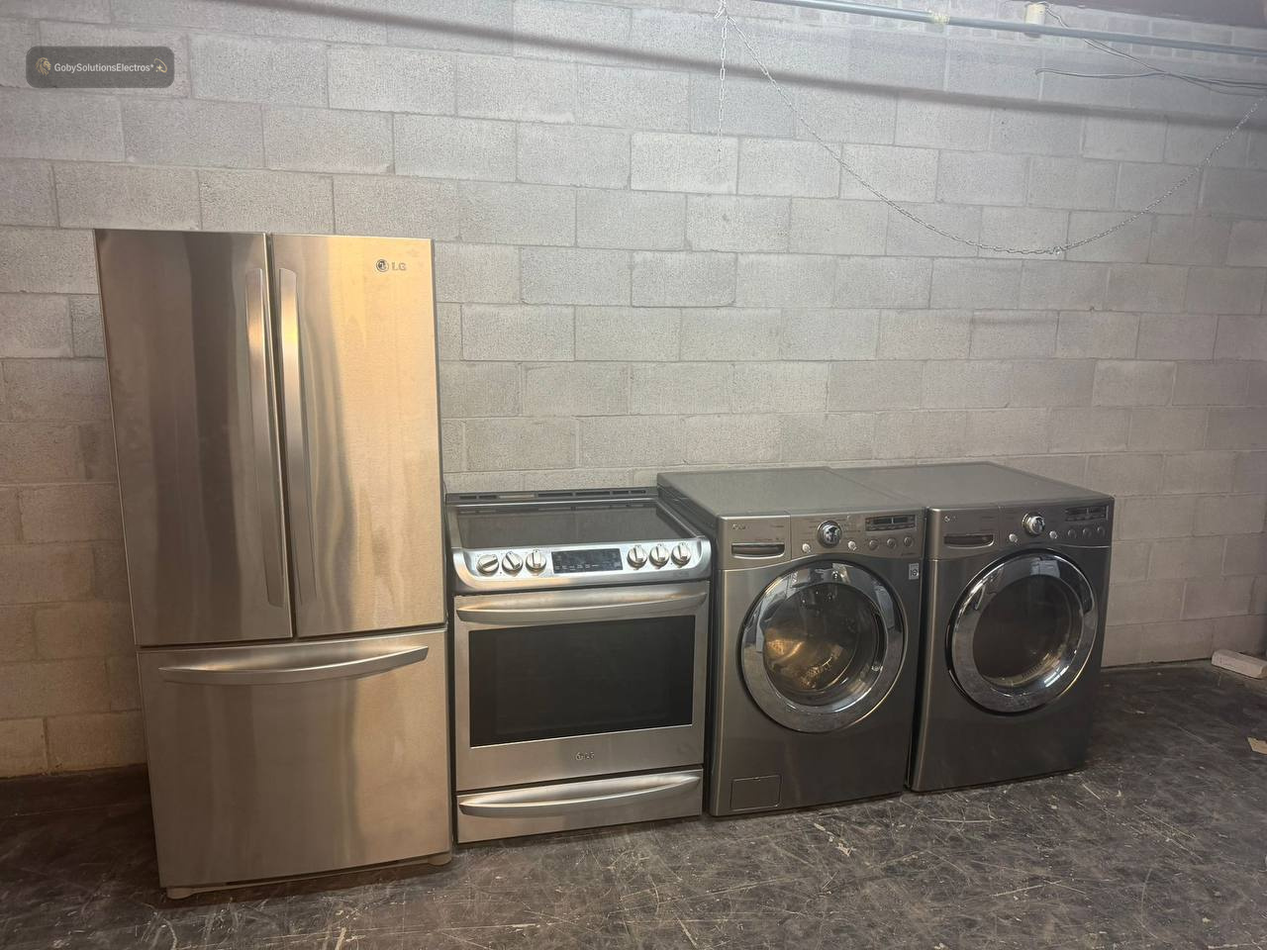
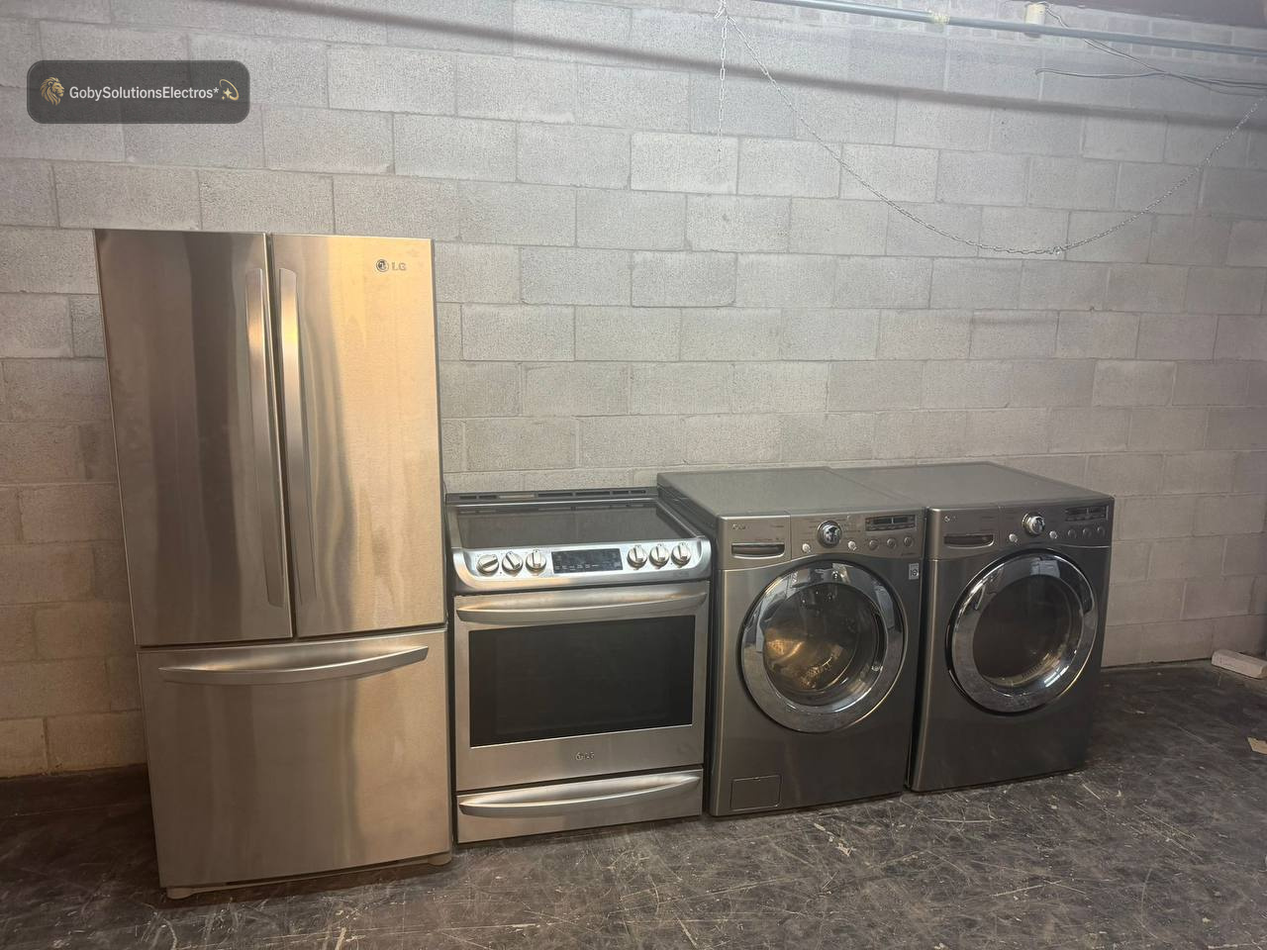
Improve watermark visibility and redesign catalog with carousel modal
- Watermark: increased size (18% width) and opacity (50%)
- Catalog: one main card per set showing main photo and set price
- Modal: carousel with prev/next arrows, shows all 4 photos
- Modal: lists each appliance with individual price and description
- Modal: bundle price displayed prominently with WhatsApp/Email/Call buttons
- Keyboard: arrow keys navigate carousel, Escape closes modal

Changed region(s): [[0.0, 0.0312, 0.2188, 0.1562]]

diff --git a/index.html b/index.html
@@ -94,15 +94,29 @@
       .cat-header h3{font-family:'Playfair Display',serif;font-size:1.35rem;color:#fff;font-weight:600}
       .cat-header span{font-size:.75rem;color:var(--text2);text-transform:uppercase;letter-spacing:.12em}
       .cat-header .line{flex:1;height:1px;background:var(--border)}
-      .set-block{margin-bottom:2.5rem;padding-bottom:1rem;border-bottom:1px solid rgba(201,149,42,.08)}
-      .set-block:last-child{border-bottom:none}
-      .set-header{display:flex;align-items:center;justify-content:space-between;padding:1.25rem 1.5rem;background:var(--bg3);border:1px solid var(--border);border-radius:14px;margin-bottom:.5rem;gap:1rem;flex-wrap:wrap}
-      .set-header-left{display:flex;align-items:center;gap:.75rem}
-      .set-icon{font-size:1.5rem}
-      .set-header h4{font-family:'Playfair Display',serif;font-size:1.2rem;color:#fff;font-weight:600;margin:0}
-      .set-total-price{font-family:'Playfair Display',serif;font-size:1.8rem;font-weight:700;color:var(--gold-light);white-space:nowrap}
-      .set-total-price small{font-size:.7rem;color:var(--text2);font-weight:300}
-      .set-savings{text-align:center;font-size:.7rem;font-weight:500;text-transform:uppercase;letter-spacing:.2em;color:var(--gold);margin-bottom:.75rem}
+      .set-card .img-wrap{position:relative}
+      .set-badge{position:absolute;top:12px;left:12px;background:rgba(0,0,0,.7);backdrop-filter:blur(6px);border:1px solid rgba(201,149,42,.3);padding:.35rem .75rem;border-radius:8px;font-size:.6rem;font-weight:600;text-transform:uppercase;letter-spacing:.15em;color:var(--gold);z-index:2}
+      .set-price{font-size:1.6rem!important}
+      .set-includes{font-size:.75rem;color:var(--text2);margin-bottom:.75rem}
+
+      .modal-carousel-wrap{position:relative;min-height:350px;background:var(--bg3);overflow:hidden;border-radius:20px 0 0 20px;display:flex;align-items:center;justify-content:center}
+      .modal-carousel-wrap img{width:100%;height:100%;object-fit:cover;position:absolute;inset:0}
+      .carousel-btn{position:absolute;top:50%;transform:translateY(-50%);width:2.5rem;height:2.5rem;border-radius:50%;background:rgba(0,0,0,.5);backdrop-filter:blur(4px);border:1px solid rgba(255,255,255,.15);color:#fff;font-size:1.2rem;display:flex;align-items:center;justify-content:center;cursor:pointer;transition:all .25s;z-index:3}
+      .carousel-btn:hover{background:rgba(0,0,0,.8);border-color:var(--gold)}
+      .carousel-prev{left:12px}
+      .carousel-next{right:12px}
+      .carousel-counter{position:absolute;bottom:12px;right:12px;background:rgba(0,0,0,.6);backdrop-filter:blur(4px);padding:.3rem .7rem;border-radius:6px;font-size:.7rem;color:#fff;z-index:3}
+
+      .modal-appliances{margin-bottom:1.25rem;flex:1}
+      .modal-appliance{padding:.85rem 0;border-bottom:1px solid var(--border)}
+      .modal-appliance:last-child{border-bottom:none}
+      .modal-appliance-name{font-family:'Playfair Display',serif;font-size:.95rem;color:#fff;font-weight:600;margin-bottom:.25rem}
+      .modal-appliance-desc{font-size:.78rem;color:var(--text2);line-height:1.6;margin-bottom:.35rem}
+      .modal-appliance-price{font-size:1.1rem;font-weight:600;color:var(--gold-light);font-family:'Playfair Display',serif}
+
+      .modal-set-total{text-align:center;padding:1rem 0;border-top:1px solid var(--border);margin-bottom:1rem}
+      .modal-set-label{font-size:.65rem;text-transform:uppercase;letter-spacing:.2em;color:var(--gold);display:block;margin-bottom:.35rem}
+      .set-modal .modal-price{font-size:2rem!important;margin:0!important}
 
       .product-card{background:var(--bg2);border:1px solid var(--border);border-radius:16px;overflow:hidden;transition:all .4s cubic-bezier(.22,1,.36,1);cursor:pointer}
       .product-card:hover{transform:translateY(-6px);border-color:rgba(201,149,42,.3);box-shadow:0 20px 60px rgba(0,0,0,.5)}
@@ -169,10 +183,10 @@
       @media(max-width:768px){
         .section{padding:4rem 0}.container{padding:0 1.25rem}
         .catalog-grid{grid-template-columns:repeat(auto-fill,minmax(240px,1fr))}
-        .set-header{flex-direction:column;align-items:flex-start;gap:.75rem}
-        .set-total-price{text-align:left}
+        .modal-carousel-wrap{min-height:250px;border-radius:20px 20px 0 0}
         .modal{grid-template-columns:1fr}
         .modal .modal-img-wrap{min-height:200px;border-radius:20px 20px 0 0}
+        .modal-carousel-wrap{min-height:200px;border-radius:20px 20px 0 0}
         .modal .modal-body{padding:1.5rem}
         .modal .modal-actions .btn{min-width:100%}
         .hamburger{display:flex}
@@ -521,21 +535,27 @@
       </div>
     </footer>
 
-    <div class="modal-overlay" id="productModal" onclick="if(event.target===this)closeModal()">
-      <div class="modal" role="dialog" aria-modal="true">
-        <div class="modal-img-wrap">
-          <img id="modalImg" src="" alt="" />
+    <div class="modal-overlay" id="setModal" onclick="if(event.target===this)closeSetModal()">
+      <div class="modal set-modal" role="dialog" aria-modal="true">
+        <div class="modal-carousel-wrap">
+          <button class="carousel-btn carousel-prev" onclick="event.stopPropagation();carouselPrev()">‹</button>
+          <img id="carouselImg" src="" alt="" />
+          <button class="carousel-btn carousel-next" onclick="event.stopPropagation();carouselNext()">›</button>
+          <div class="carousel-counter" id="carouselCounter"></div>
         </div>
         <div class="modal-body">
-          <button class="close-btn" onclick="closeModal()" aria-label="Close">✕</button>
-          <span class="modal-cat-tag" id="modalCat"></span>
-          <h3 class="modal-title" id="modalTitle"></h3>
-          <p class="modal-desc" id="modalDesc"></p>
-          <div class="modal-price" id="modalPrice"></div>
+          <button class="close-btn" onclick="closeSetModal()" aria-label="Close">✕</button>
+          <span class="modal-cat-tag" id="setModalCat"></span>
+          <h3 class="modal-title" id="setModalTitle"></h3>
+          <div class="modal-appliances" id="setModalAppliances"></div>
+          <div class="modal-set-total">
+            <span class="modal-set-label">Prix Ensemble Complet</span>
+            <div class="modal-price" id="setModalPrice"></div>
+          </div>
           <div class="modal-actions">
-            <a class="btn btn-gold" id="modalWA" target="_blank" rel="noopener" data-i18n="modalWA">💬 WhatsApp</a>
-            <a class="btn btn-outline" id="modalEmail" data-i18n="modalEmail">✉ Email</a>
-            <a class="btn btn-outline" id="modalCall" data-i18n="modalCall">📞 Appeler</a>
+            <a class="btn btn-gold" id="setModalWA" target="_blank" rel="noopener">💬 WhatsApp</a>
+            <a class="btn btn-outline" id="setModalEmail">✉ Email</a>
+            <a class="btn btn-outline" id="setModalCall">📞 Appeler</a>
           </div>
         </div>
       </div>
@@ -545,42 +565,77 @@
       const sets = [
         {
           num: 1, setPrice: 1499,
+          mainImg: 'assets/5%20Combos/SET%20NUMERO%201/fridge-lg-33-watermarked.jpg',
+          photos: [
+            'assets/5%20Combos/SET%20NUMERO%201/fridge-lg-33-watermarked.jpg',
+            'assets/5%20Combos/SET%20NUMERO%201/stove-frigidaire-30-watermarked.jpg',
+            'assets/5%20Combos/SET%20NUMERO%201/washer-dryer-midea-27-watermarked.jpg',
+            'assets/5%20Combos/SET%20NUMERO%201/photo-4-watermarked.jpg'
+          ],
           appliances: [
-            {id:'s1-fridge', type:'Réfrigérateur', typeEN:'Refrigerator', brand:'LG', size:'33"', price:579, sku:'S1-001', img:'assets/5 Combos/SET%20NUMERO%201/fridge-lg-33-watermarked.jpg', descFR:'Réfrigérateur LG 33 pouces. Grande capacité, éclairage LED, technology de conservation avancée.', descEN:'LG 33" Refrigerator. Large capacity, LED lighting, advanced preservation technology.'},
-            {id:'s1-stove', type:'Cuisinière', typeEN:'Stove', brand:'FRIGIDAIRE', size:'30"', price:449, sku:'S1-002', img:'assets/5%20Combos/SET%20NUMERO%201/stove-frigidaire-30-watermarked.jpg', descFR:'Cuisinière FRIGIDAIRE 30 pouces. Brûleurs performants, four convecteur, fini élégant.', descEN:'FRIGIDAIRE 30" Stove. High-performance burners, convection oven, elegant finish.'},
-            {id:'s1-washer', type:'Laveuse-Sécheuse', typeEN:'Washer-Dryer', brand:'MIDEA', size:'27"', price:649, sku:'S1-003', img:'assets/5%20Combos/SET%20NUMERO%201/washer-dryer-midea-27-watermarked.jpg', descFR:'Laveuse-sécheuse MIDEA 27 pouces. Efficacité énergétique, cycles variés, capacité familiale.', descEN:'MIDEA 27" Washer-Dryer. Energy efficient, multiple cycles, family capacity.'}
+            {type:'Réfrigérateur', typeEN:'Refrigerator', brand:'LG', size:'33"', price:579, descFR:'Réfrigérateur LG 33 pouces. Grande capacité, éclairage LED, technologie de conservation avancée.', descEN:'LG 33" Refrigerator. Large capacity, LED lighting, advanced preservation technology.'},
+            {type:'Cuisinière', typeEN:'Stove', brand:'FRIGIDAIRE', size:'30"', price:449, descFR:'Cuisinière FRIGIDAIRE 30 pouces. Brûleurs performants, four convecteur, fini élégant.', descEN:'FRIGIDAIRE 30" Stove. High-performance burners, convection oven, elegant finish.'},
+            {type:'Laveuse-Sécheuse', typeEN:'Washer-Dryer', brand:'MIDEA', size:'27"', price:649, descFR:'Laveuse-sécheuse MIDEA 27 pouces. Efficacité énergétique, cycles variés, capacité familiale.', descEN:'MIDEA 27" Washer-Dryer. Energy efficient, multiple cycles, family capacity.'}
           ]
         },
         {
           num: 2, setPrice: 1389,
+          mainImg: 'assets/5%20Combos/SET%20NUMERO%202/fridge-whirlpool-33-watermarked.jpg',
+          photos: [
+            'assets/5%20Combos/SET%20NUMERO%202/fridge-whirlpool-33-watermarked.jpg',
+            'assets/5%20Combos/SET%20NUMERO%202/stove-whirlpool-30-watermarked.jpg',
+            'assets/5%20Combos/SET%20NUMERO%202/washer-dryer-samsung-27-watermarked.jpg',
+            'assets/5%20Combos/SET%20NUMERO%202/photo-4-watermarked.jpg'
+          ],
           appliances: [
-            {id:'s2-fridge', type:'Réfrigérateur', typeEN:'Refrigerator', brand:'WHIRLPOOL', size:'33"', price:550, sku:'S2-001', img:'assets/5%20Combos/SET%20NUMERO%202/fridge-whirlpool-33-watermarked.jpg', descFR:'Réfrigérateur WHIRLPOOL 33 pouces. Design classique, conservation optimale, fiabilité éprouvée.', descEN:'WHIRLPOOL 33" Refrigerator. Classic design, optimal preservation, proven reliability.'},
-            {id:'s2-stove', type:'Cuisinière', typeEN:'Stove', brand:'WHIRLPOOL', size:'30"', price:399, sku:'S2-002', img:'assets/5%20Combos/SET%20NUMERO%202/stove-whirlpool-30-watermarked.jpg', descFR:'Cuisinière WHIRLPOOL 30 pouces. Performance constante, cuisson uniforme, facile à nettoyer.', descEN:'WHIRLPOOL 30" Stove. Consistent performance, even cooking, easy to clean.'},
-            {id:'s2-washer', type:'Laveuse-Sécheuse', typeEN:'Washer-Dryer', brand:'SAMSUNG', size:'27"', price:649, sku:'S2-003', img:'assets/5%20Combos/SET%20NUMERO%202/washer-dryer-samsung-27-watermarked.jpg', descFR:'Laveuse-sécheuse SAMSUNG 27 pouces. Technologie avancée, cycles rapides, design moderne.', descEN:'SAMSUNG 27" Washer-Dryer. Advanced technology, fast cycles, modern design.'}
+            {type:'Réfrigérateur', typeEN:'Refrigerator', brand:'WHIRLPOOL', size:'33"', price:550, descFR:'Réfrigérateur WHIRLPOOL 33 pouces. Design classique, conservation optimale, fiabilité éprouvée.', descEN:'WHIRLPOOL 33" Refrigerator. Classic design, optimal preservation, proven reliability.'},
+            {type:'Cuisinière', typeEN:'Stove', brand:'WHIRLPOOL', size:'30"', price:399, descFR:'Cuisinière WHIRLPOOL 30 pouces. Performance constante, cuisson uniforme, facile à nettoyer.', descEN:'WHIRLPOOL 30" Stove. Consistent performance, even cooking, easy to clean.'},
+            {type:'Laveuse-Sécheuse', typeEN:'Washer-Dryer', brand:'SAMSUNG', size:'27"', price:649, descFR:'Laveuse-sécheuse SAMSUNG 27 pouces. Technologie avancée, cycles rapides, design moderne.', descEN:'SAMSUNG 27" Washer-Dryer. Advanced technology, fast cycles, modern design.'}
           ]
         },
         {
           num: 3, setPrice: 1489,
+          mainImg: 'assets/5%20Combos/SET%20NUMERO%203/fridge-ge-30-watermarked.jpg',
+          photos: [
+            'assets/5%20Combos/SET%20NUMERO%203/fridge-ge-30-watermarked.jpg',
+            'assets/5%20Combos/SET%20NUMERO%203/stove-maytag-30-watermarked.jpg',
+            'assets/5%20Combos/SET%20NUMERO%203/washer-dryer-maytag-27-watermarked.jpg',
+            'assets/5%20Combos/SET%20NUMERO%203/photo-4-watermarked.jpg'
+          ],
           appliances: [
-            {id:'s3-fridge', type:'Réfrigérateur', typeEN:'Refrigerator', brand:'GE', size:'30"', price:550, sku:'S3-001', img:'assets/5%20Combos/SET%20NUMERO%203/fridge-ge-30-watermarked.jpg', descFR:'Réfrigérateur GE 30 pouces. Compact etspacieux, technologie de refroidissement avancée.', descEN:'GE 30" Refrigerator. Compact yet spacious, advanced cooling technology.'},
-            {id:'s3-stove', type:'Cuisinière', typeEN:'Stove', brand:'MAYTAG', size:'30"', price:469, sku:'S3-002', img:'assets/5%20Combos/SET%20NUMERO%203/stove-maytag-30-watermarked.jpg', descFR:'Cuisinière MAYTAG 30 pouces. Construction robuste, puissance de cuisson, durabilité exceptionnelle.', descEN:'MAYTAG 30" Stove. Robust construction, cooking power, exceptional durability.'},
-            {id:'s3-washer', type:'Laveuse-Sécheuse', typeEN:'Washer-Dryer', brand:'MAYTAG', size:'27"', price:649, sku:'S3-003', img:'assets/5%20Combos/SET%20NUMERO%203/washer-dryer-maytag-27-watermarked.jpg', descFR:'Laveuse-sécheuse MAYTAG 27 pouces. Fiabilité professionnelle, grande capacité, cycles efficaces.', descEN:'MAYTAG 27" Washer-Dryer. Professional reliability, large capacity, efficient cycles.'}
+            {type:'Réfrigérateur', typeEN:'Refrigerator', brand:'GE', size:'30"', price:550, descFR:'Réfrigérateur GE 30 pouces. Compact et spacieux, technologie de refroidissement avancée.', descEN:'GE 30" Refrigerator. Compact yet spacious, advanced cooling technology.'},
+            {type:'Cuisinière', typeEN:'Stove', brand:'MAYTAG', size:'30"', price:469, descFR:'Cuisinière MAYTAG 30 pouces. Construction robuste, puissance de cuisson, durabilité exceptionnelle.', descEN:'MAYTAG 30" Stove. Robust construction, cooking power, exceptional durability.'},
+            {type:'Laveuse-Sécheuse', typeEN:'Washer-Dryer', brand:'MAYTAG', size:'27"', price:649, descFR:'Laveuse-sécheuse MAYTAG 27 pouces. Fiabilité professionnelle, grande capacité, cycles efficaces.', descEN:'MAYTAG 27" Washer-Dryer. Professional reliability, large capacity, efficient cycles.'}
           ]
         },
         {
           num: 4, setPrice: 1689,
+          mainImg: 'assets/5%20Combos/SET%20NUMERO%204/fridge-frigidaire-33-watermarked.jpg',
+          photos: [
+            'assets/5%20Combos/SET%20NUMERO%204/fridge-frigidaire-33-watermarked.jpg',
+            'assets/5%20Combos/SET%20NUMERO%204/stove-samsung-30-watermarked.jpg',
+            'assets/5%20Combos/SET%20NUMERO%204/washer-dryer-samsung-27-watermarked.jpg',
+            'assets/5%20Combos/SET%20NUMERO%204/photo-4-watermarked.jpg'
+          ],
           appliances: [
-            {id:'s4-fridge', type:'Réfrigérateur', typeEN:'Refrigerator', brand:'FRIGIDAIRE', size:'33"', price:659, sku:'S4-001', img:'assets/5%20Combos/SET%20NUMERO%204/fridge-frigidaire-33-watermarked.jpg', descFR:'Réfrigérateur FRIGIDAIRE 33 pouces. Grande capacité, distribution d\'eau, fini premium.', descEN:'FRIGIDAIRE 33" Refrigerator. Large capacity, water dispenser, premium finish.'},
-            {id:'s4-stove', type:'Cuisinière', typeEN:'Stove', brand:'SAMSUNG', size:'30"', price:449, sku:'S4-002', img:'assets/5%20Combos/SET%20NUMERO%204/stove-samsung-30-watermarked.jpg', descFR:'Cuisinière SAMSUNG 30 pouces. Technologie innovante, cuisson précise, design élégant.', descEN:'SAMSUNG 30" Stove. Innovative technology, precise cooking, elegant design.'},
-            {id:'s4-washer', type:'Laveuse-Sécheuse', typeEN:'Washer-Dryer', brand:'SAMSUNG', size:'27"', price:689, sku:'S4-003', img:'assets/5%20Combos/SET%20NUMERO%204/washer-dryer-samsung-27-watermarked.jpg', descFR:'Laveuse-sécheuse SAMSUNG 27 pouces. Wi-Fi, vapeur, efficacité énergétique maximale.', descEN:'SAMSUNG 27" Washer-Dryer. Wi-Fi, steam, maximum energy efficiency.'}
+            {type:'Réfrigérateur', typeEN:'Refrigerator', brand:'FRIGIDAIRE', size:'33"', price:659, descFR:'Réfrigérateur FRIGIDAIRE 33 pouces. Grande capacité, distribution d\'eau, fini premium.', descEN:'FRIGIDAIRE 33" Refrigerator. Large capacity, water dispenser, premium finish.'},
+            {type:'Cuisinière', typeEN:'Stove', brand:'SAMSUNG', size:'30"', price:449, descFR:'Cuisinière SAMSUNG 30 pouces. Technologie innovante, cuisson précise, design élégant.', descEN:'SAMSUNG 30" Stove. Innovative technology, precise cooking, elegant design.'},
+            {type:'Laveuse-Sécheuse', typeEN:'Washer-Dryer', brand:'SAMSUNG', size:'27"', price:689, descFR:'Laveuse-sécheuse SAMSUNG 27 pouces. Wi-Fi, vapeur, efficacité énergétique maximale.', descEN:'SAMSUNG 27" Washer-Dryer. Wi-Fi, steam, maximum energy efficiency.'}
           ]
         },
         {
           num: 5, setPrice: 1885,
+          mainImg: 'assets/5%20Combos/SET%20NUMERO%205/fridge-lg-33-watermarked.jpg',
+          photos: [
+            'assets/5%20Combos/SET%20NUMERO%205/fridge-lg-33-watermarked.jpg',
+            'assets/5%20Combos/SET%20NUMERO%205/stove-samsung-30-watermarked.jpg',
+            'assets/5%20Combos/SET%20NUMERO%205/washer-dryer-maytag-27-watermarked.jpg',
+            'assets/5%20Combos/SET%20NUMERO%205/photo-4-watermarked.jpg'
+          ],
           appliances: [
-            {id:'s5-fridge', type:'Réfrigérateur', typeEN:'Refrigerator', brand:'LG', size:'33"', price:780, sku:'S5-001', img:'assets/5%20Combos/SET%20NUMERO%205/fridge-lg-33-watermarked.jpg', descFR:'Réfrigérateur LG 33 pouces. Technologie de pointe, intelligent Inverter, design premium.', descEN:'LG 33" Refrigerator. Cutting-edge technology, Smart Inverter, premium design.'},
-            {id:'s5-stove', type:'Cuisinière', typeEN:'Stove', brand:'SAMSUNG', size:'30"', price:469, sku:'S5-002', img:'assets/5%20Combos/SET%20NUMERO%205/stove-samsung-30-watermarked.jpg', descFR:'Cuisinière SAMSUNG 30 pouces. Convecteur, brûleurs à haute performance, interface intuitive.', descEN:'SAMSUNG 30" Stove. Convection, high-performance burners, intuitive interface.'},
-            {id:'s5-washer', type:'Laveuse-Sécheuse', typeEN:'Washer-Dryer', brand:'MAYTAG', size:'27"', price:789, sku:'S5-003', img:'assets/5%20Combos/SET%20NUMERO%205/washer-dryer-maytag-27-watermarked.jpg', descFR:'Laveuse-sécheuse MAYTAG 27 pouces. Cap. XL, système de nettoyage avancé, garantie longue durée.', descEN:'MAYTAG 27" Washer-Dryer. XL capacity, advanced cleaning system, long warranty.'}
+            {type:'Réfrigérateur', typeEN:'Refrigerator', brand:'LG', size:'33"', price:780, descFR:'Réfrigérateur LG 33 pouces. Technologie de pointe, Smart Inverter, design premium.', descEN:'LG 33" Refrigerator. Cutting-edge technology, Smart Inverter, premium design.'},
+            {type:'Cuisinière', typeEN:'Stove', brand:'SAMSUNG', size:'30"', price:469, descFR:'Cuisinière SAMSUNG 30 pouces. Convecteur, brûleurs à haute performance, interface intuitive.', descEN:'SAMSUNG 30" Stove. Convection, high-performance burners, intuitive interface.'},
+            {type:'Laveuse-Sécheuse', typeEN:'Washer-Dryer', brand:'MAYTAG', size:'27"', price:789, descFR:'Laveuse-sécheuse MAYTAG 27 pouces. Capacité XL, système de nettoyage avancé, garantie longue durée.', descEN:'MAYTAG 27" Washer-Dryer. XL capacity, advanced cleaning system, long warranty.'}
           ]
         }
       ];
@@ -602,7 +657,6 @@
           sectionOpenBox: 'Boîte Ouverte', sectionUsed: 'Usagé',
           subCombos: 'Combos', subWasherDryer: 'Laveuses-sécheuses', subFridges: 'Réfrigérateurs', subFurnaces: 'Fournaises',
           viewDetails: 'Voir les détails →',
-          modalWA: '💬 WhatsApp', modalEmail: '✉ Email', modalCall: '📞 Appeler',
           aboutLabel: 'Notre Maison', aboutTitle: 'Où la qualité rencontre la confiance.',
           aboutDesc: 'Fondé à Montréal, GobySolutions repose sur une conviction simple : chaque maison mérite des appareils exceptionnels et un service à la hauteur. Nous inspectons personnellement chaque unité - neuve ou pré-appartenance - parce que votre cuisine ne devrait jamais faire de compromis.',
           aboutFeat1: 'Livraison gratuite 2000$+', aboutFeat2: 'Installation pro', aboutFeat3: 'Inspecté & certifié', aboutFeat4: 'Support après-vente',
@@ -674,7 +728,6 @@
           sectionOpenBox: 'Open Box', sectionUsed: 'Used',
           subCombos: 'Combos', subWasherDryer: 'Washer & Dryer', subFridges: 'Refrigerators', subFurnaces: 'Furnaces',
           viewDetails: 'View Details →',
-          modalWA: '💬 WhatsApp', modalEmail: '✉ Email', modalCall: '📞 Call',
           aboutLabel: 'Our House', aboutTitle: 'Where quality meets trust.',
           aboutDesc: 'Founded in Montreal, GobySolutions is built on a simple belief: every home deserves exceptional appliances and every customer deserves exceptional care. We personally inspect every unit - new or pre-owned - because your kitchen shouldn\'t settle for less.',
           aboutFeat1: 'Free Delivery 2000$+', aboutFeat2: 'Pro Installation', aboutFeat3: 'Inspected & Certified', aboutFeat4: 'After-Sales Support',
@@ -774,49 +827,22 @@
       }, { threshold: .5 });
       counters.forEach(el => counterObserver.observe(el));
 
-      function findAppliance(id){
-        for(var i=0;i<sets.length;i++){
-          for(var j=0;j<sets[i].appliances.length;j++){
-            if(sets[i].appliances[j].id===id) return {set:sets[i], appliance:sets[i].appliances[j]};
-          }
-        }
-        return null;
-      }
-
-      function waMsg(appliance, setNum, l){
-        var base = l==='en'
-          ? "Hello, I'm interested in the "+appliance.brand+" "+appliance.size+" "+appliance.typeEN+" from Set #"+setNum
-          : "Bonjour, je suis intéressé(e) par le "+appliance.type+" "+appliance.brand+" "+appliance.size+" du Ensemble #"+setNum;
-        return encodeURIComponent(base+' - SKU #'+appliance.sku);
-      }
-
       function renderCatalog(){
         var grid=document.getElementById('catalogGrid'),l=document.documentElement.lang,html='';
         html+='<div class="catalog-section">';
         html+='<div class="cat-header reveal"><span>✅</span><h3>'+(l==='en'?'Appliance Sets':'Ensembles d\'Appareils')+'</h3><div class="line"></div></div>';
+        html+='<div class="catalog-grid">';
         sets.forEach(function(set){
           var setLabel = (l==='en'?'SET':'ENSEMBLE')+' NUMERO '+set.num;
-          html+='<div class="set-block">';
-          html+='<div class="set-header reveal">';
-          html+='<div class="set-header-left"><span class="set-icon">📦</span><h4>'+setLabel+'</h4></div>';
-          html+='<div class="set-total-price">$'+set.setPrice+' <small>CAD</small></div>';
-          html+='</div>';
-          html+='<div class="set-savings reveal">' + (l==='en'?'Complete Set Price':'Prix Ensemble Complet') + '</div>';
-          html+='<div class="catalog-grid">';
-          set.appliances.forEach(function(a){
-            var name = a.brand+' '+a.size+' '+a.type;
-            var nameEN = a.brand+' '+a.size+' '+a.typeEN;
-            html+='<div class="product-card reveal" onclick="openModal(\''+a.id+'\')">'+
-              '<div class="img-wrap"><img src="'+a.img+'" alt="'+(l==='en'?nameEN:name)+'" loading="lazy" /></div>'+
-              '<div class="info"><h4>'+(l==='en'?nameEN:name)+'</h4>'+
-              '<div class="cat-tag">'+a.brand+' • '+a.size+'</div>'+
-              '<div class="price">$'+a.price+' <small>CAD</small></div>'+
-              '<div class="sku">#'+a.sku+'</div>'+
-              '<button class="btn btn-gold btn-sm" data-i18n="viewDetails">'+(l==='en'?'View Details →':'Voir les détails →')+'</button></div></div>';
-          });
-          html+='</div></div>';
+          html+='<div class="product-card set-card reveal" onclick="openSetModal('+(set.num-1)+')">'+
+            '<div class="img-wrap"><img src="'+set.mainImg+'" alt="'+setLabel+'" loading="lazy" />'+
+            '<div class="set-badge">'+setLabel+'</div></div>'+
+            '<div class="info"><h4>'+setLabel+'</h4>'+
+            '<div class="price set-price">$'+set.setPrice+' <small>CAD</small></div>'+
+            '<div class="set-includes">'+(l==='en'?'Includes 3 appliances':'Inclut 3 appareils')+'</div>'+
+            '<button class="btn btn-gold btn-sm" data-i18n="viewDetails">'+(l==='en'?'View Details →':'Voir les détails →')+'</button></div></div>';
         });
-        html+='</div>';
+        html+='</div></div>';
         grid.innerHTML=html;
         setTimeout(function(){grid.querySelectorAll('.reveal').forEach(function(el){observer.observe(el)})},100);
       }
@@ -824,35 +850,75 @@
       function openAIPopup(){document.getElementById('aiPopup').classList.add('active')}
       function closeAIPopup(){document.getElementById('aiPopup').classList.remove('active')}
 
-      function openModal(id){
-        var result = findAppliance(id);
-        if(!result) return;
-        var a = result.appliance, setNum = result.set.num, setPrice = result.set.setPrice;
-        var l = document.documentElement.lang;
-        var name = l==='en' ? a.brand+' '+a.size+' '+a.typeEN : a.brand+' '+a.size+' '+a.type;
-        document.getElementById('modalImg').src = a.img;
-        document.getElementById('modalImg').alt = name;
-        document.getElementById('modalCat').textContent = (l==='en'?'SET':'ENSEMBLE')+' NUMERO '+setNum;
-        document.getElementById('modalTitle').textContent = name;
-        var desc = l==='en' ? a.descEN : a.descFR;
-        desc += '\n\n'+(l==='en'?'Complete Set Price':'Prix Ensemble')+' (NUMERO '+setNum+'): $'+setPrice+' CAD';
-        document.getElementById('modalDesc').textContent = desc;
-        document.getElementById('modalPrice').textContent = '$'+a.price+' CAD';
-        document.getElementById('modalWA').href = 'https://wa.me/15144312367?text=' + waMsg(a, setNum, l);
-        document.getElementById('modalEmail').href = 'mailto:optimum61@hotmail.com?subject=' + encodeURIComponent('Question about ' + name);
-        document.getElementById('modalCall').href = 'tel:+15147991291';
-        var overlay = document.getElementById('productModal');
+      var currentSetIdx = 0;
+      var currentPhotoIdx = 0;
+
+      function openSetModal(setIdx){
+        currentSetIdx = setIdx;
+        currentPhotoIdx = 0;
+        renderSetModal();
+        var overlay = document.getElementById('setModal');
         overlay.classList.add('active');
         document.body.style.overflow = 'hidden';
       }
 
-      function closeModal(){
-        document.getElementById('productModal').classList.remove('active');
+      function closeSetModal(){
+        document.getElementById('setModal').classList.remove('active');
         document.body.style.overflow = '';
       }
 
+      function renderSetModal(){
+        var set = sets[currentSetIdx];
+        var l = document.documentElement.lang;
+        var setLabel = (l==='en'?'SET':'ENSEMBLE')+' NUMERO '+set.num;
+
+        document.getElementById('setModalCat').textContent = setLabel;
+        document.getElementById('setModalTitle').textContent = setLabel;
+        document.getElementById('setModalPrice').textContent = '$'+set.setPrice+' CAD';
+
+        document.getElementById('carouselImg').src = set.photos[currentPhotoIdx];
+        document.getElementById('carouselImg').alt = setLabel;
+        document.getElementById('carouselCounter').textContent = (currentPhotoIdx+1)+' / '+set.photos.length;
+
+        var listHtml = '';
+        set.appliances.forEach(function(a){
+          var name = l==='en' ? a.typeEN+' '+a.brand+' '+a.size : a.type+' '+a.brand+' '+a.size;
+          listHtml+='<div class="modal-appliance">'+
+            '<div class="modal-appliance-name">'+name+'</div>'+
+            '<div class="modal-appliance-desc">'+(l==='en'?a.descEN:a.descFR)+'</div>'+
+            '<div class="modal-appliance-price">$'+a.price+' CAD</div>'+
+          '</div>';
+        });
+        document.getElementById('setModalAppliances').innerHTML = listHtml;
+
+        var waText = l==='en'
+          ? "Hello, I'm interested in Set NUMERO "+set.num+" ($"+set.setPrice+" CAD). I'd like more details."
+          : "Bonjour, je suis intéressé(e) par l'Ensemble NUMERO "+set.num+" ($"+set.setPrice+" CAD). J'aimerais plus de détails.";
+        document.getElementById('setModalWA').href = 'https://wa.me/15144312367?text=' + encodeURIComponent(waText);
+        document.getElementById('setModalEmail').href = 'mailto:optimum61@hotmail.com?subject=' + encodeURIComponent('Question about Set NUMERO '+set.num);
+        document.getElementById('setModalCall').href = 'tel:+15147991291';
+      }
+
+      function carouselPrev(){
+        var set = sets[currentSetIdx];
+        currentPhotoIdx = (currentPhotoIdx - 1 + set.photos.length) % set.photos.length;
+        document.getElementById('carouselImg').src = set.photos[currentPhotoIdx];
+        document.getElementById('carouselCounter').textContent = (currentPhotoIdx+1)+' / '+set.photos.length;
+      }
+
+      function carouselNext(){
+        var set = sets[currentSetIdx];
+        currentPhotoIdx = (currentPhotoIdx + 1) % set.photos.length;
+        document.getElementById('carouselImg').src = set.photos[currentPhotoIdx];
+        document.getElementById('carouselCounter').textContent = (currentPhotoIdx+1)+' / '+set.photos.length;
+      }
+
       document.addEventListener('keydown', e => {
-        if(e.key === 'Escape'){ closeModal(); closeGuide(); closeLegal(); }
+        if(e.key === 'Escape'){ closeSetModal(); closeGuide(); closeLegal(); }
+        if(document.getElementById('setModal').classList.contains('active')){
+          if(e.key === 'ArrowLeft') carouselPrev();
+          if(e.key === 'ArrowRight') carouselNext();
+        }
       });
 
       function toggleFAQ(btn){
